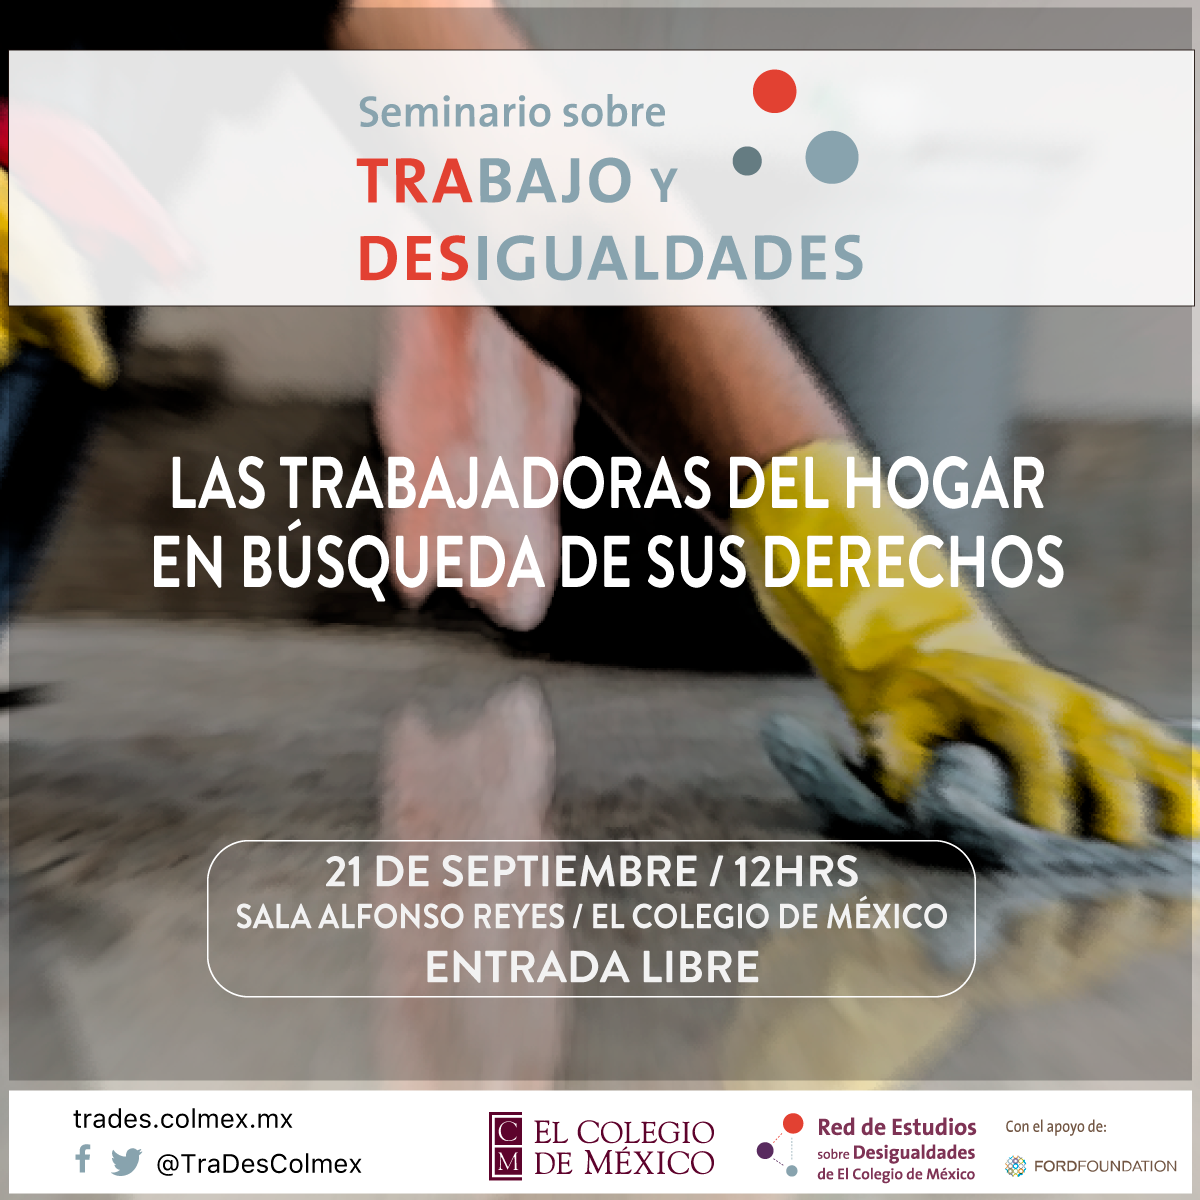
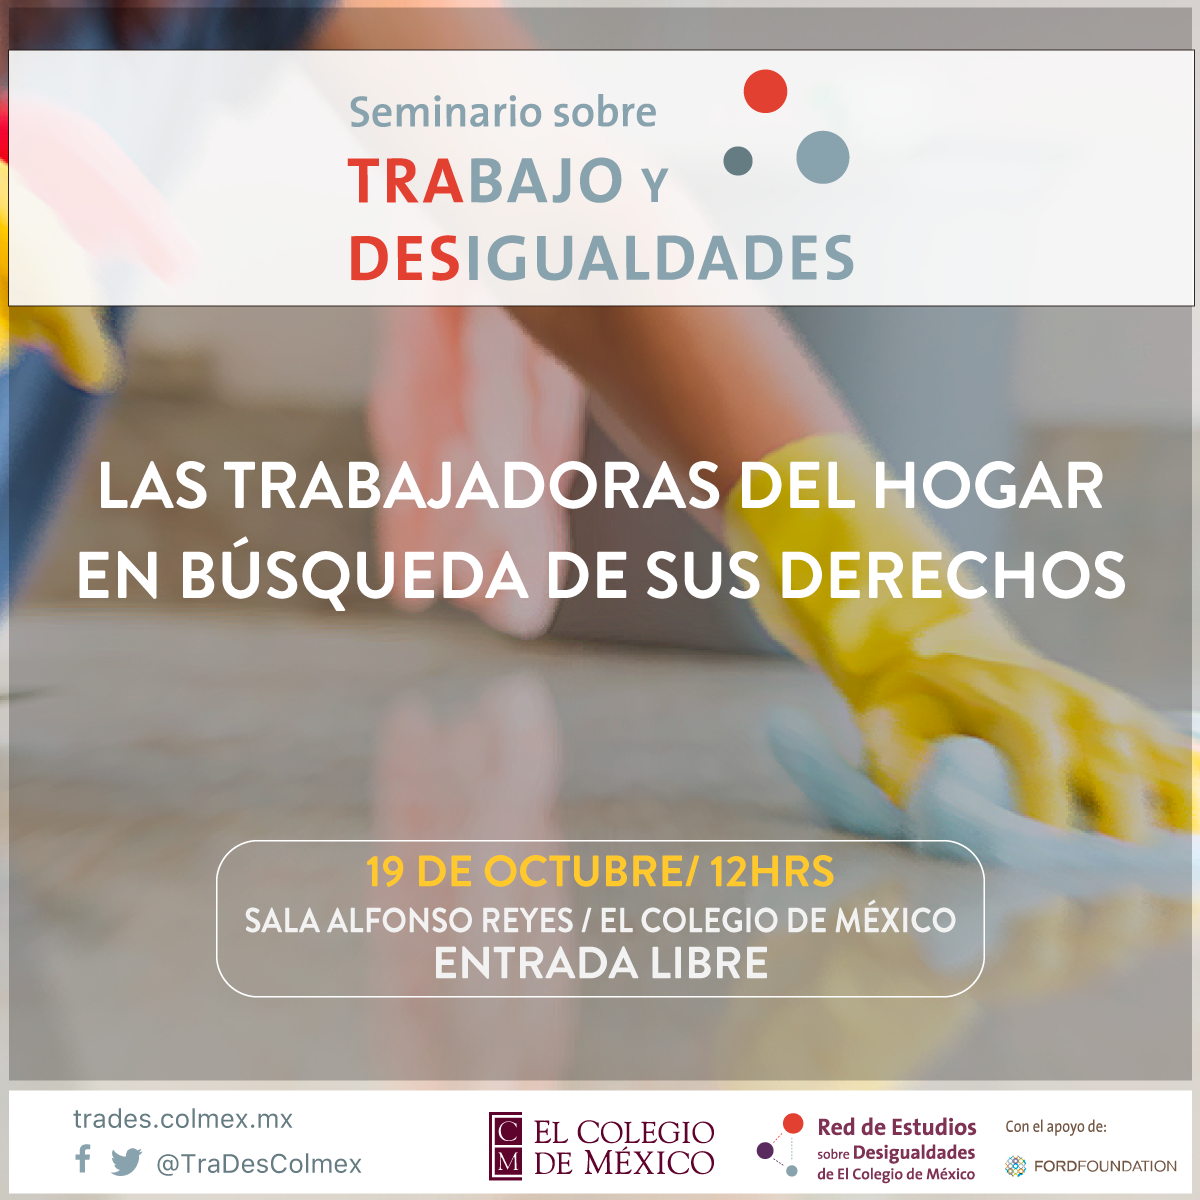
Nueva sesión

diff --git a/sitio/index.html b/sitio/index.html
@@ -140,11 +140,11 @@ ga('send', 'pageview');
                         Salario mínimo <br>y desigualdad en México
                       </a>
                     </li>
-                    <!--<li>
+                    <li>
                       <a href="sesion5.html">
                         Las trabajadoras del hogar <br>en búsqueda de sus derechos
                       </a>
-                    </li>-->
+                    </li>
                   </ul>
                 </li>
                 <li class="dropdown active">
@@ -358,18 +358,17 @@ ga('send', 'pageview');
             <div class="col-xs-12 col-sm-6">
               <!-- Quinta sesión -->
               <!-- Div para agregar un evento y su resumen -->
-              <!--<div class="single-event">
+              <div class="single-event">
                   <div class="event-pic">
                     <img src="images\th12x12.png" alt="Quinta sesión">
                     <div class="event-date">
-                      <span class="date">22</span>
-                      <span class="year">Septiembre 2017</span>
+                      <span class="date">19</span>
+                      <span class="year">Octubre 2017</span>
                     </div>
                   </div>
                   <div class="event-info">
                     <h4><a href="sesion4.html">Las trabajadoras del hogar <br>en búsqueda de sus derechos</a></h4>
                     <span><i class="fa fa-user" aria-hidden="true"></i> : Marcelina Bautista (CACEH)</span>
-                    <span><i class="fa fa-user" aria-hidden="true"></i> : José Adán Ignacio Rubí Salazar (STPS)</span>
                     <span><i class="fa fa-user" aria-hidden="true"></i> : Mary Goldsmith (UAM-X)</span>
                     <span><i class="fa fa-user" aria-hidden="true"></i> : Alexandra Haas (CONAPRED)</span>
                     <span><i class="fa fa-clock-o" aria-hidden="true"></i> : 12:00 - 14:00 horas</span>
@@ -377,7 +376,9 @@ ga('send', 'pageview');
                     
                   </div>
                   <a href="sesion5.html" class="button">Más información</a>
-                </div>-->
+                </div>
+			  </div>
+                <div class="col-xs-12 col-sm-6">
                 <div class="single-event">
                   <div class="event-pic">
                     <img src="images\SM_12x12.png" alt="Cuarta sesión">
@@ -397,8 +398,10 @@ ga('send', 'pageview');
                   </div>
                   <a href="sesion4.html" class="button">Más información</a>
                 </div>
+			  </div>
 
             </div>
+            <div role="tabpanel" class="tab-pane" id="evento2">
             <div class="col-xs-12 col-sm-6">
               <!-- Cuarta sesión sesión -->
               <!-- Div para agregar un evento y su resumen -->
@@ -426,16 +429,9 @@ ga('send', 'pageview');
                   </div>
                   <a href="sesion3.html" class="button">Más información</a>
                 </div>
-            
-
-            </div>
-            
-          </div>
-          <div role="tabpanel" class="tab-pane" id="evento2">
-            <div class="col-xs-12 col-sm-6">
-              <!-- Segunda sesión -->
-              <!-- Div para agregar un evento y su resumen -->
-              <div class="single-event">
+				</div>
+                <div class="col-xs-12 col-sm-6">
+                <div class="single-event">
                 <div class="event-pic">
                   <img src="images/PPRET_redes.jpg" alt="Segunda sesión">
                   <div class="event-date">
@@ -453,7 +449,10 @@ ga('send', 'pageview');
                 </div>
                 <a href="sesion2.html" class="button">Más información</a>
               </div>
-              </div>
+				</div>
+
+            </div>
+          <div role="tabpanel" class="tab-pane" id="evento3">
               <div class="col-xs-12 col-sm-6">
               <div class="single-event">
                 <div class="event-pic">
@@ -484,14 +483,13 @@ ga('send', 'pageview');
           <ul class="nav pagination" role="tablist">
             <li role="presentation" class="active"><a href="#evento1" aria-controls="" data-toggle="tab" role="tab">1</a></li>
             <li role="presentation"><a href="#evento2" aria-controls="" data-toggle="tab" role="tab">2</a></li>
-            <!--<li role="presentation"><a href="#evento3" aria-controls="" data-toggle="tab" role="tab">3</a></li>-->
+            <li role="presentation"><a href="#evento3" aria-controls="" data-toggle="tab" role="tab">3</a></li>
           </ul>
         </div>
         <!-- Fin de renglón para la paginación y el desplazamiento entre estas -->
       </div>
     </div>
-  </div>
-
+	</div>
 </div>
 </section>
 

diff --git a/sitio/sesion5.html b/sitio/sesion5.html
@@ -102,11 +102,11 @@
                       jornaleros agrícolas </a> </li>
                     <li class="sesion4.html"> <a href="#"> Salario mínimo <br>
                       y desigualdad en México </a> </li>
-                    <!--<li>
+                    <li>
                       <a href="sesion5.html">
                         Las trabajadoras del hogar <br>en búsqueda de sus derechos
                       </a>
-                    </li>-->
+                    </li>
                   </ul>
                 </li>
                 <li class="dropdown active"> <a href="#" class="dropdown-toggle" data-toggle="dropdown" role="button" aria-haspopup="true" aria-expanded="false"> <span>Publicaciones</span> </a>
@@ -249,7 +249,6 @@
             <div class="single-description">
               <h4 class="description-title">Las trabajadoras del hogar en búsqueda de sus derechos</h4>
               <p> <span><i class="fa fa-user" aria-hidden="true"></i> : Marcelina Bautista (CACEH)</span> <br>
-                <span><i class="fa fa-user" aria-hidden="true"></i> : José Adán Ignacio Rubí Salazar (STPS)</span> <br>
                 <span><i class="fa fa-user" aria-hidden="true"></i> : Mary Goldsmith (UAM-X)</span> <br>
                 <span><i class="fa fa-user" aria-hidden="true"></i> : Alexandra Haas (CONAPRED)</span> <br>
               </p>

diff --git a/sitio/apuntes2.html b/sitio/apuntes2.html
@@ -102,11 +102,11 @@
                       jornaleros agrícolas </a> </li>
                     <li> <a href="sesion4.html"> Salario mínimo <br>
                       y desigualdad en México </a> </li>
-                    <!--<li>
+                    <li>
                       <a href="sesion5.html">
                         Las trabajadoras del hogar <br>en búsqueda de sus derechos
                       </a>
-                    </li>-->
+                    </li>
                   </ul>
                 </li>
                 <li class="dropdown active"> <a href="#" class="dropdown-toggle" data-toggle="dropdown" role="button" aria-haspopup="true" aria-expanded="false"> <span>Publicaciones</span> </a>

diff --git a/sitio/seminario.html b/sitio/seminario.html
@@ -144,11 +144,11 @@
                                             Salario mínimo <br>y desigualdad en México
                                           </a>
                                         </li>
-                                         <!--<li>
+                                         <li>
                       <a href="sesion5.html">
                         Las trabajadoras del hogar <br>en búsqueda de sus derechos
-                      </a>
-                    </li>-->
+											 </a>
+                    </li>
                                       </ul>
                                     </li>
                                     <li class="dropdown active">

diff --git a/sitio/apuntes3.html b/sitio/apuntes3.html
@@ -137,11 +137,11 @@
                                             Salario mínimo <br>y desigualdad en México
                                           </a>
                                         </li>
-                                         <!--<li>
+                                         <li>
                       <a href="sesion5.html">
                         Las trabajadoras del hogar <br>en búsqueda de sus derechos
                       </a>
-                    </li>-->
+                    </li>
                                       </ul>
                                     </li>
                                     <li class="dropdown active">

diff --git a/sitio/contacto.html b/sitio/contacto.html
@@ -142,11 +142,11 @@
                                             Salario mínimo <br>y desigualdad en México
                                           </a>
                                         </li>
-                                         <!--<li>
+                                         <li>
                       <a href="sesion5.html">
                         Las trabajadoras del hogar <br>en búsqueda de sus derechos
                       </a>
-                    </li>-->
+                    </li>
                                       </ul>
                                     </li>
                                     <li class="dropdown active">

diff --git a/sitio/dstrabajo.html b/sitio/dstrabajo.html
@@ -147,11 +147,11 @@
                                             Salario mínimo <br>y desigualdad en México
                                           </a>
                                         </li>
-                                         <!--<li>
+                                         <li>
                       <a href="sesion5.html">
                         Las trabajadoras del hogar <br>en búsqueda de sus derechos
                       </a>
-                    </li>-->
+                    </li>
                                       </ul>
                                     </li>
                                     <li class="dropdown active">

diff --git a/sitio/lecturas_sesion1.html b/sitio/lecturas_sesion1.html
@@ -147,11 +147,11 @@
                                             Salario mínimo <br>y desigualdad en México
                                           </a>
                                         </li>
-                                         <!--<li>
+                                         <li>
                       <a href="sesion5.html">
                         Las trabajadoras del hogar <br>en búsqueda de sus derechos
                       </a>
-                    </li>-->
+                    </li>
                                       </ul>
                                     </li>
                                     <li class="dropdown active">

diff --git a/sitio/multimedia.html b/sitio/multimedia.html
@@ -147,11 +147,11 @@
                                             Salario mínimo <br>y desigualdad en México
                                           </a>
                                         </li>
-                                         <!--<li>
+                                         <li>
                       <a href="sesion5.html">
                         Las trabajadoras del hogar <br>en búsqueda de sus derechos
                       </a>
-                    </li>-->
+                    </li>
                                       </ul>
                                     </li>
                                     <li class="dropdown active">

diff --git a/sitio/nosotros.html b/sitio/nosotros.html
@@ -144,11 +144,11 @@
                                             Salario mínimo <br>y desigualdad en México
                                           </a>
                                         </li>
-                                         <!--<li>
+                                         <li>
                       <a href="sesion5.html">
                         Las trabajadoras del hogar <br>en búsqueda de sus derechos
                       </a>
-                    </li>-->
+                    </li>
                                       </ul>
                                     </li>
                                     <li class="dropdown active">

diff --git a/sitio/publicaciones.html b/sitio/publicaciones.html
@@ -137,11 +137,11 @@
                                             Salario mínimo <br>y desigualdad en México
                                           </a>
                                         </li>
-                                         <!--<li>
+                                         <li>
                       <a href="sesion5.html">
                         Las trabajadoras del hogar <br>en búsqueda de sus derechos
                       </a>
-                    </li>-->
+                    </li>
                                       </ul>
                                     </li>
                                     <li class="dropdown active">

diff --git a/sitio/sesion1.html b/sitio/sesion1.html
@@ -137,11 +137,11 @@
                                             Salario mínimo <br>y desigualdad en México
                                           </a>
                                         </li>
-                                         <!--<li>
+                                         <li>
                       <a href="sesion5.html">
                         Las trabajadoras del hogar <br>en búsqueda de sus derechos
                       </a>
-                    </li>-->
+                    </li>
                                       </ul>
                                     </li>
                                     <li class="dropdown active">
